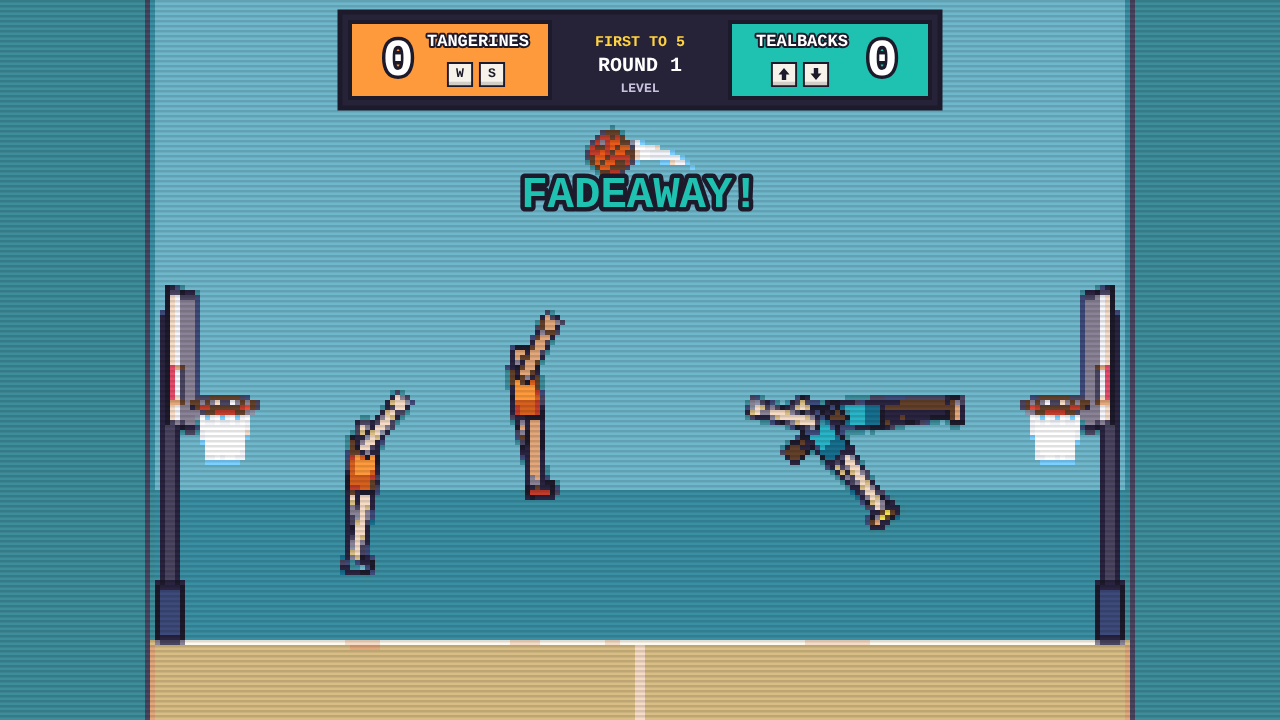
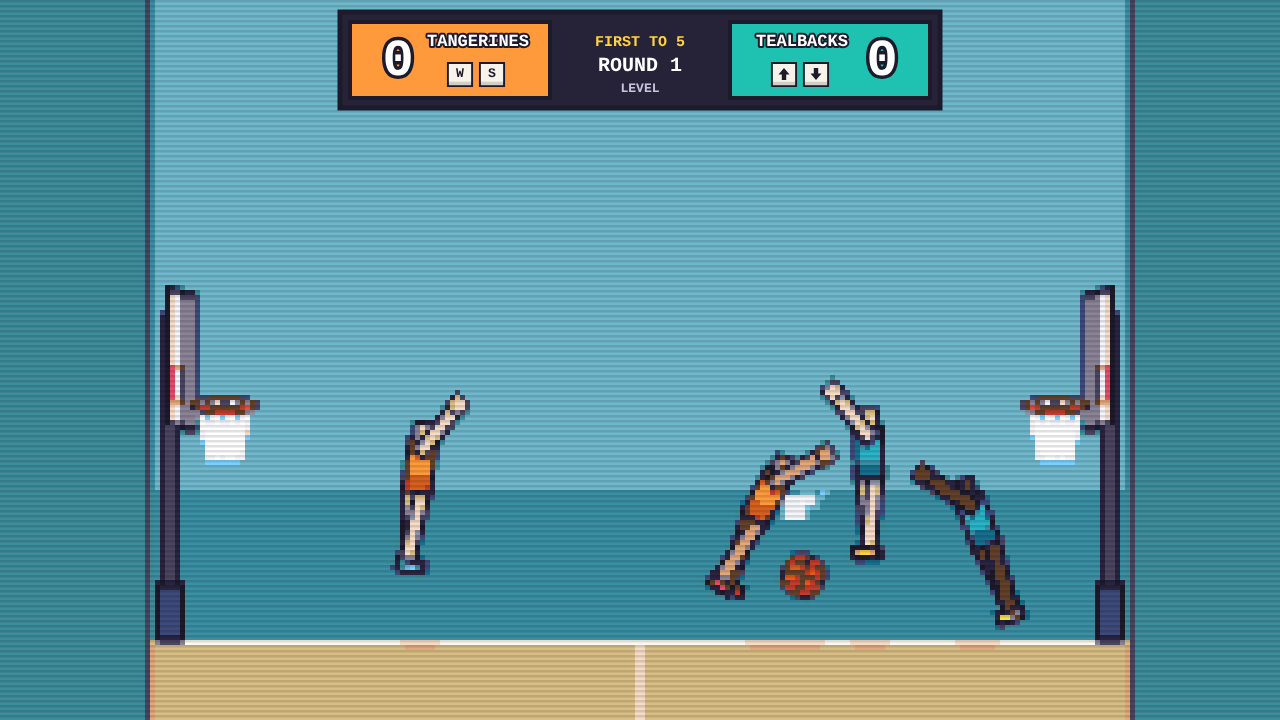
iteration 8: added tap-to-dunk, pass-through passes, particles; ball held in the palm
Brief: design/game-brief.md

Also: a perfect shot may graze the rim or board by up to 5 px (rim unchanged);
the hold point now follows the arm's angle at the catch; fewer score confetti.

Claude-Session: https://claude.ai/code/session_01JSgNr6WUAfnQ9VaCvmLX1X

diff --git a/prototypes/flop-hoops/js/physics.js b/prototypes/flop-hoops/js/physics.js
@@ -157,12 +157,12 @@ const Physics = (() => {
         const rel = Math.hypot(ball.velocity.x - other.velocity.x, ball.velocity.y - other.velocity.y);
         if (other.plugin.player) w.kicks.push({ part: other, rel });
         else if (other.plugin.kind === 'floor') ball.shot = null; // a shot that lands is no longer a shot
-        else if (ball.shot && (other.plugin.kind === 'rim' || other.plugin.kind === 'board') && ball.position.y < other.plugin.hoop.rimY) {
+        else if (ball.shot && !ball.shot.perfect && (other.plugin.kind === 'rim' || other.plugin.kind === 'board') && ball.position.y < other.plugin.hoop.rimY) {
           // touched before it was through the rim plane: no swish; an on-target shot turns its trail green
           ball.shot.clean = false;
           if (ball.shot.onTarget && w.trail && w.trail.shot === ball.shot) w.trail.mode = 'green';
         }
-        onEvent({ type: 'hit', on: other.plugin.player ? 'player' : other.plugin.kind, speed: rel,
+        onEvent({ type: 'hit', on: other.plugin.player ? 'player' : other.plugin.kind, speed: rel, x: ball.position.x, y: ball.position.y,
           team: other.plugin.player ? other.plugin.player.team : -1, hoop: other.plugin.hoop || null });
       }
     });
@@ -174,7 +174,7 @@ const Physics = (() => {
   function dropBall(w, T) {
     if (w.hold) release(w, T, 0);
     if (w.dunk) { w.dunk.p.slam = false; w.dunk = null; }
-    w.ball.collisionFilter.mask = 0x1 | 0x2 | 0x4;
+    w.ball.collisionFilter.mask = 0x1 | 0x2 | 0x4; w.ghostUntil = 0;
     Body.setPosition(w.ball, { x: w.cx, y: w.floorY - T.drop_height });
     Body.setVelocity(w.ball, { x: (w.rng() - 0.5) * 2.4, y: 0 });
     Body.setAngularVelocity(w.ball, (w.rng() - 0.5) * 0.2);
@@ -323,18 +323,22 @@ const Physics = (() => {
    *  before the shot can be cocked: `armed` turns true on the first release. */
   function grab(w, p, T, how, held) {
     const bheldNow = !!(w.bheld && w.bheld[p.team]);
-    const ball = w.ball, hand = handPos(p);
+    const ball = w.ball;
     if (w.hold) release(w, T, 0);
-    Body.setPosition(ball, hand);
+    const pr = p.dims.armL / 2 + ball.r * T.palm_offset;
+    Body.setPosition(ball, { x: p.arm.position.x - Math.sin(p.arm.angle) * pr, y: p.arm.position.y + Math.cos(p.arm.angle) * pr });
     Body.setVelocity(ball, { x: p.arm.velocity.x, y: p.arm.velocity.y });
     ball._px = undefined;
     ball.collisionFilter.group = p.group;           // the carrier's own body never knocks it out of the hand
-    const con = Constraint.create({ bodyA: p.arm, pointA: { x: 0, y: p.dims.armL / 2 }, bodyB: ball,
+    // the hold point is given in world orientation, so it is turned to the arm's angle right now:
+    // the ball sits in the palm, just past the hand, wherever the arm points at the catch
+    const reach = p.dims.armL / 2 + ball.r * T.palm_offset, aa = p.arm.angle;
+    const con = Constraint.create({ bodyA: p.arm, pointA: { x: -Math.sin(aa) * reach, y: Math.cos(aa) * reach }, bodyB: ball,
       pointB: { x: 0, y: 0 }, length: 0, stiffness: 0.6, damping: 0.1 });
     Composite.add(w.engine.world, con);
     w.lastBouncer = null; w.passGuard = null;
     if (how !== 'dribble') for (const q of w.players) q.dribbleT = 0;
-    w.hold = { p, con, t: 0, charge: 0, armed: !held, cocking: false, bcharge: 0, barmed: !bheldNow, bouncing: false, dunkReady: false };
+    w.hold = { p, con, t: 0, prevK: held, charge: 0, armed: !held, cocking: false, bcharge: 0, barmed: !bheldNow, bouncing: false, dunkReady: false };
     ball.shot = null;
     w.onEvent({ type: how, team: p.team });
   }
@@ -389,8 +393,8 @@ const Physics = (() => {
     for (let i = 0; i < 400; i++) {
       vx *= keep; vy = vy * keep + g;
       const ny = y + vy, nx = x + vx;
-      if (Math.hypot(nx - hoop.frontX, ny - hoop.rimY) < r + 6) touched = true;                 // front rim
-      if (Math.abs(nx - hoop.boardX) < r + 5 && ny > hoop.boardTop - r && ny < hoop.boardBot + r) touched = true; // backboard
+      if (Math.hypot(nx - hoop.frontX, ny - hoop.rimY) < r + 6 - T.perfect_graze) touched = true; // front rim, beyond a slight graze
+      if (Math.abs(nx - hoop.boardX) < r + 5 - T.perfect_graze && ny > hoop.boardTop - r && ny < hoop.boardBot + r) touched = true; // backboard, beyond a slight graze
       if (crossX === null && vy > 0 && y < hoop.rimY && ny >= hoop.rimY) crossX = x + (nx - x) * (hoop.rimY - y) / (ny - y);
       x = nx; y = ny;
       // contact counts only until the ball is through the rim plane: once it is in, a graze of
@@ -399,7 +403,7 @@ const Physics = (() => {
       if (y > w.floorY) break;
     }
     if (crossX === null) return { onTarget: false, perfect: false };
-    const off = Math.abs(crossX - hoop.cx), clears = off <= hoop.span / 2 - r - 1; // the whole ball inside both rim edges
+    const off = Math.abs(crossX - hoop.cx), clears = off <= hoop.span / 2 - r + T.perfect_graze; // inside both rim edges, give or take a slight graze
     return { onTarget: off < hoop.span / 2, perfect: !touched && clears && off < hoop.span * T.perfect_window };
   }
 
@@ -418,20 +422,21 @@ const Physics = (() => {
       Body.setVelocity(ball, { x: T.dribble_vx * p.dir, y: T.dribble_vy });
       p.dribbleT = T.dribble_time; p.cd = 0;
       Body.setAngularVelocity(p.torso, (p.dir * T.dribble_lean - wrap(p.torso.angle)) * 0.12); // tip in over the ball
-    } else Body.setVelocity(ball, { x: lerp(T.bounce_vx_min, T.bounce_vx_max, c) * p.dir, y: lerp(T.bounce_vy_min, T.bounce_vy_max, c) });
+    } else {
+      Body.setVelocity(ball, { x: lerp(T.bounce_vx_min, T.bounce_vx_max, c) * p.dir, y: lerp(T.bounce_vy_min, T.bounce_vy_max, c) });
+      ball.collisionFilter.mask = 0x1 | TEAM_CAT[p.team];   // a pass slips through opponents for a moment
+      w.ghostUntil = w.time + T.pass_ghost;
+    }
     Body.setAngularVelocity(ball, p.dir * 0.15);
     w.onEvent({ type: dribble ? 'dribbleout' : 'bounce', team: p.team, charge: c });
   }
 
   /**
-   * Whether the carrier can dunk now: in the air, the ball within T.dunk_range of the spot just
-   * above the rim, the body within T.dunk_body_range of the rim, and on the court side of it.
+   * Whether the carrier can dunk now: standing or in the air, the body within T.dunk_body_range of
+   * the rim (measured in both directions), and on the court side of it.
    */
   function dunkReady(w, T, p, hoop) {
-    const b = w.ball, top = { x: hoop.cx, y: hoop.rimY - b.r };
-    return p.sinceGround > 0.1
-      && Math.hypot(b.position.x - top.x, b.position.y - top.y) < T.dunk_range
-      && Math.hypot(p.torso.position.x - hoop.cx, p.torso.position.y - hoop.rimY) < T.dunk_body_range
+    return Math.hypot(p.torso.position.x - hoop.cx, p.torso.position.y - hoop.rimY) < T.dunk_body_range
       && (hoop.boardX - p.torso.position.x) * p.dir > 0;
   }
 
@@ -439,7 +444,7 @@ const Physics = (() => {
   function startDunk(w, T, hoop) {
     const p = w.hold.p, ball = w.ball;
     release(w, T, T.dunk_time + 0.4);
-    ball.collisionFilter.mask = 0;          // carried through, nothing knocks it off its path
+    ball.collisionFilter.mask = 0; w.ghostUntil = 0;   // carried through, nothing knocks it off its path
     w.dunk = { p, hoop, t: 0, from: { x: ball.position.x, y: ball.position.y } };
     p.slam = true;
     w.onEvent({ type: 'dunkstart', team: p.team });
@@ -457,7 +462,7 @@ const Physics = (() => {
     Body.setVelocity(ball, { x: nx - ball.position.x, y: ny - ball.position.y });
     Body.setPosition(ball, { x: nx, y: ny });
     // the dunker is pulled up to the rim's front, arm slamming down over it
-    const hang = { x: h.cx - p.dir * (h.span / 2 + 18), y: h.rimY + 50 };
+    const hang = { x: h.cx - p.dir * (h.span / 2 + 18), y: h.rimY + 50 };   // from the floor too: the pull lifts the dunker
     for (const part of p.parts) {
       Body.setVelocity(part, { x: lerp(part.velocity.x, (hang.x - p.torso.position.x) * 0.15, 0.4), y: lerp(part.velocity.y, (hang.y - p.torso.position.y) * 0.15, 0.4) });
     }
@@ -468,7 +473,7 @@ const Physics = (() => {
       h.wobble = 2;
       p.slam = false;
       w.dunk = null;
-      w.onEvent({ type: 'dunk', team: p.team });
+      w.onEvent({ type: 'dunk', team: p.team, x: h.cx, y: h.rimY });
     }
   }
 
@@ -524,7 +529,8 @@ const Physics = (() => {
       if (h.bouncing && !bk) { bounce(w, T); return; }
       const hoop = attackedHoop(w, p);
       h.dunkReady = dunkReady(w, T, p, hoop);
-      if (h.cocking && !k && h.dunkReady) { startDunk(w, T, hoop); return; }   // near the rim, letting go dunks
+      if (h.dunkReady && k && !h.prevK) { startDunk(w, T, hoop); return; }   // near the rim: a tap of jump dunks
+      h.prevK = k;
       if ((h.cocking && !k) || h.t > T.hold_max) { shoot(w, T); return; }
       for (const q of w.players) { // a defender's hand box over the held ball: stolen
         if (q.team === p.team || h.t < T.steal_guard || !canCatch(q)) continue;
@@ -558,12 +564,14 @@ const Physics = (() => {
   function step(w, held, T, dt, bheld = [false, false]) {
     w.time += dt;
     w.bheld = bheld;
+    if (w.ghostUntil && w.time >= w.ghostUntil) { w.ghostUntil = 0; if (!w.dunk) w.ball.collisionFilter.mask = 0x1 | 0x2 | 0x4; }
     for (const b of w.dynamic) { b._px = b.position.x; b._py = b.position.y; b._pa = b.angle; }
     for (const p of w.players) drive(w, p, held[p.team], T, dt);
     spread(w, T);
     w.kicks.length = 0;
     Engine.update(w.engine, DELTA);
     for (const p of w.players) {
+      if (p.foot && p.sinceFoot > 0.25 && p.torso.velocity.y > 3) w.onEvent({ type: 'land', x: p.torso.position.x, y: w.floorY, speed: p.torso.velocity.y });
       p.sinceGround = p.touch ? 0 : p.sinceGround + dt; p.touch = false;
       p.sinceFoot = p.foot ? 0 : p.sinceFoot + dt; p.foot = false;
     }

diff --git a/prototypes/flop-hoops/index.html b/prototypes/flop-hoops/index.html
@@ -162,10 +162,13 @@ function onPhysEvent(ev) {
   if (ev.type === 'dribbleout') { sfx.bounce(0.1); events.push({ type: 'dribbleout', team: ev.team }); return; }
   if (ev.type === 'bounce') { sfx.bounce(ev.charge); events.push({ type: 'bounce', team: ev.team, charge: ev.charge }); return; }
   if (ev.type === 'dunkstart') { sfx.grab(); events.push({ type: 'dunkstart', team: ev.team }); return; }
-  if (ev.type === 'dunk') { sfx.dunk(); state.shake = tune.shake * 0.6; events.push({ type: 'dunk', team: ev.team }); return; }
+  if (ev.type === 'dunk') { puff(ev.x, ev.y, 10, { speed: 320, life: 0.45, colors: ['#ffd23f', '#ffffff', Render.TEAM_COLORS[ev.team]], size: 9, g: 700 }); sfx.dunk(); state.shake = tune.shake * 0.6; events.push({ type: 'dunk', team: ev.team }); return; }
   if (ev.type === 'steal') world.flash.t = 0.25;
   if (CALLOUTS[ev.type]) { sfx.block(); state.shake = Math.max(state.shake, tune.shake * 0.4); callout(CALLOUTS[ev.type], ev.team); events.push({ type: ev.type, team: ev.team }); return; }
+  if (ev.type === 'land') { if (ev.speed > 4) puff(ev.x, ev.y - 4, 4, { speed: 120, angle: -Math.PI / 2, cone: 2.6, life: 0.35, colors: [DUST()], size: 8, g: 300, jitter: 20 }); return; }
   if (ev.type !== 'hit' || ev.speed < 1.2) return;
+  if (ev.on === 'floor' && ev.speed > 3) puff(ev.x, Physics.FLOOR_Y - 4, 3, { speed: 90, angle: -Math.PI / 2, cone: 2.4, life: 0.3, colors: [DUST()], size: 7, g: 250, jitter: 14 });
+  if (ev.on === 'rim' && ev.speed > 2) puff(ev.x, ev.y, 4, { speed: 220, life: 0.25, colors: ['#ffd23f', '#ffffff'], size: 6, g: 600 });
   if (ev.on === 'player') { sfx.bop(ev.speed); events.push({ type: 'touch', team: ev.team }); }
   else if (ev.on === 'floor') sfx.floor(ev.speed);
   else if (ev.on === 'board') { sfx.board(ev.speed); if (ev.hoop) ev.hoop.wobble = 1; }
@@ -206,30 +209,44 @@ let physStepSaw = [false, false], physStepSawB = [false, false];
 function bounceKeys() { return BOUNCE_KEYS.map(k => down.has(k)); }
 function courtAlpha() { return Math.min(1, physAcc + ALPHA * tune.game_speed); }
 function heldKeys() { return KEYS.map(k => down.has(k)); }
+const DUST = () => (world && Render.VENUES[world.S.venue].line) || '#ffffff';
 const SCORE_KINDS = { dunk: 'DUNK!', fade: 'FADEAWAY!', shot: 'JUMP SHOT!' };
 function score(hoop) {
   const team = hoop.team, shot = world.ball.shot, own = shot && shot.team === team;
-  state.scoreKind = own ? (shot.perfect && shot.clean ? 'PERFECT SWISH!' : shot.kind !== 'dunk' && shot.clean ? 'SWISH! ' + SCORE_KINDS[shot.kind] : SCORE_KINDS[shot.kind])
+  state.scoreKind = own ? (shot.perfect ? 'PERFECT SWISH!' : shot.kind !== 'dunk' && shot.clean ? 'SWISH! ' + SCORE_KINDS[shot.kind] : SCORE_KINDS[shot.kind])
     : (world.hold ? 'CARRIED IN!' : 'SCRAMBLE!');
   state.toastT = 0; // the score banner names the shot; no callout on top of it
   state.score[team]++; state.pops[team] = 1; state.shake = tune.shake * (shot && shot.kind === 'dunk' ? 1.6 : 1); state.scorer = team; state.scoredT = 0;
   hoop.sway = 1.5;
   const c = [Render.TEAM_COLORS[team], '#ffd23f', '#ffffff', Render.TEAM_DARK[team]];
-  for (let i = 0; i < 70; i++) {
+  for (let i = 0; i < 36; i++) {
     state.particles.push({ x: (hoop.x1 + hoop.x2) / 2, y: hoop.rimY + 20, vx: (rng() - 0.5) * 900, vy: -200 - rng() * 700,
       a: rng() * 6, va: (rng() - 0.5) * 20, life: 1.2 + rng() * 0.8, c: c[i % 4] });
   }
   sfx.swish();
+  puff((hoop.x1 + hoop.x2) / 2, hoop.rimY + 40, 6, { speed: 60, angle: Math.PI / 2, cone: 1.2, life: 0.6, colors: ['#ffffff'], size: 6, g: 500, jitter: 30 }); // net flecks
   events.push({ type: 'score', team, score: state.score.slice() });
   state.winner = Scoring.winner(state.score, tune.win_score);
   scene = 'scored';
+}
+// ---- Particles: few, short and purposeful. A separate random keeps gameplay rolls untouched.
+let fxSeed = 7;
+function fxr() { fxSeed = (fxSeed * 1103515245 + 12345) & 0x7fffffff; return fxSeed / 0x7fffffff; }
+/** Spawn n particles at (x, y): spread is the launch speed in px/s, up its upward bias, g gravity. */
+function puff(x, y, n, o) {
+  for (let i = 0; i < n; i++) {
+    const a = o.angle !== undefined ? o.angle + (fxr() - 0.5) * (o.cone || Math.PI) : fxr() * Math.PI * 2;
+    const sp = o.speed * (0.5 + fxr() * 0.5);
+    state.particles.push({ x: x + (fxr() - 0.5) * (o.jitter || 0), y, vx: Math.cos(a) * sp, vy: Math.sin(a) * sp - (o.up || 0),
+      a: 0, va: 0, life: o.life * (0.7 + fxr() * 0.3), max: o.life, c: o.colors[i % o.colors.length], size: o.size || 8, g: o.g ?? 900, drag: o.drag ?? 0.9 });
+  }
 }
 function updateJuice(dt) {
   state.pops = state.pops.map(p => Math.max(0, p - dt * 2.5));
   state.shake = Math.max(0, state.shake - dt * tune.shake * 2.2);
   state.toastT = Math.max(0, state.toastT - dt);
   if (world && world.flash) world.flash.t = Math.max(0, world.flash.t - dt);
-  for (const p of state.particles) { p.vy += 1400 * dt; p.x += p.vx * dt; p.y += p.vy * dt; p.vx *= 0.99; p.a += p.va * dt; p.life -= dt; }
+  for (const p of state.particles) { const d = Math.pow(p.drag ?? 0.99, dt * 60); p.vy += (p.g ?? 1400) * dt; p.vx *= d; p.vy *= p.g === 0 ? d : 1; p.x += p.vx * dt; p.y += p.vy * dt; p.a += p.va * dt; p.life -= dt; }
   state.particles = state.particles.filter(p => p.life > 0 && p.y < H + 20);
 }
 /** A ball that stops moving (on a backboard top, wedged in a corner) is dropped again. */
@@ -296,7 +313,8 @@ function drawCourt(fn) {
 function drawGame(opts = {}) {
   drawCourt(c => {
     Render.world(c, world, courtAlpha(), state.t, W, H);
-    for (const p of state.particles) { c.fillStyle = p.c; c.fillRect(p.x - 6, p.y - 6, 12, 12); }
+    for (const p of state.particles) { const k = p.max ? Math.max(0, p.life / p.max) : 1, sz = (p.size || 12) * (p.max ? 0.4 + 0.6 * k : 1); c.globalAlpha = p.max ? Math.min(1, k * 1.5) : 1; c.fillStyle = p.c; c.fillRect(p.x - sz / 2, p.y - sz / 2, sz, sz); }
+    c.globalAlpha = 1;
   });
   if (opts.hud !== false) {
     Render.scoreboard(ctx, W, { score: state.score, pops: state.pops, round: state.round, target: tune.win_score, leader: Scoring.leader(state.score) });
@@ -304,6 +322,10 @@ function drawGame(opts = {}) {
       const t = world.hustle[0] ? 0 : 1;
       text(`${Render.TEAM_NAMES[t].toUpperCase()} HUSTLE: HIGHER JUMPS`, W / 2, 128, 16, Render.TEAM_COLORS[t], { stroke: 4 });
     }
+  }
+  if (world && world.hold && world.hold.dunkReady && (scene === 'play')) {
+    const p = world.hold.p, h = world.hoops.find(q => q.team === p.team), on = Math.floor(state.t * 4) % 2;
+    text(`TAP ${p.team ? 'UP' : 'W'} TO DUNK`, h.cx, h.boardTop - 30, 18, on ? '#ffd23f' : '#ffffff', { weight: 900, stroke: 5 });
   }
   if (state.toastT > 0) {
     const k = Math.min(1, (1.1 - state.toastT) / 0.12);

diff --git a/prototypes/flop-hoops/config.js b/prototypes/flop-hoops/config.js
@@ -31,6 +31,7 @@ window.CONFIG = {
 
   // ---- Ball handling: grab, shoot, fadeaway, dunk, block ----
   regrab_delay: { value: 0.4, min: 0, max: 1.5, step: 0.05 },   // s before a player who let go can grab again
+  palm_offset: { value: 0.55, min: 0, max: 1.2, step: 0.05 },    // ball centre past the hand, in ball radii: held in the palm
   belly_margin: { value: 6, min: 0, max: 30, step: 1 },          // px the abdomen catch reaches past the torso
   hand_box: { value: 78, min: 20, max: 120, step: 2 },          // px side of the square catch box around each hand
   shot_charge_time: { value: 1.0, min: 0.2, max: 2.5, step: 0.05 }, // s of holding to reach full shot power
@@ -43,8 +44,7 @@ window.CONFIG = {
   fade_speed: { value: 0.8, min: 0, max: 5, step: 0.1 },        // px/step drifting away from the hoop that counts
   fade_lean: { value: 0.3, min: 0, max: 1.2, step: 0.05 },      // rad leaning back that counts
   dunk_speed: { value: 12, min: 4, max: 24, step: 0.5 },        // px/step the ball is slammed down
-  dunk_range: { value: 80, min: 20, max: 200, step: 5 },        // px from the ball to the spot above the rim where a dunk is on
-  dunk_body_range: { value: 150, min: 60, max: 300, step: 5 },  // px from the dunker's body to the rim
+  dunk_body_range: { value: 175, min: 60, max: 300, step: 5 },  // px from the carrier's body to the rim where TAP TO DUNK shows (standing or flying)
   dunk_time: { value: 0.22, min: 0.08, max: 0.6, step: 0.01 },  // s the slam motion takes
   dunk_lift: { value: 24, min: 0, max: 80, step: 2 },            // px the ball arcs up before coming down through
   block_window: { value: 0.9, min: 0.2, max: 2, step: 0.05 },   // s after a shot a defender's touch is a block
@@ -60,6 +60,7 @@ window.CONFIG = {
   dribble_reach: { value: 70, min: 0, max: 160, step: 5 },       // px from the hand a rising dribble is caught back
   bounce_regrab: { value: 0.3, min: 0, max: 1, step: 0.05 },    // s before the bouncer can catch it again
   pass_guard: { value: 0.6, min: 0, max: 2, step: 0.05 },        // s after a bounce that opponents cannot catch it
+  pass_ghost: { value: 0.3, min: 0, max: 1, step: 0.05 },        // s a pass passes straight through opponents
   dribble_threshold: { value: 0.25, min: 0, max: 1, step: 0.05 }, // bounce charge below which a release is a dribble
   dribble_vx: { value: 1.6, min: 0, max: 6, step: 0.1 },         // px/step forward speed of a dribble
   dribble_vy: { value: 6, min: 1, max: 14, step: 0.5 },          // px/step downward throw of a dribble
@@ -69,6 +70,7 @@ window.CONFIG = {
   dribble_hop_gap: { value: 0.18, min: 0.05, max: 0.6, step: 0.01 }, // s between small hops
   dribble_lean: { value: 0.3, min: 0, max: 0.8, step: 0.02 },    // rad forward lean while dribbling
   perfect_window: { value: 0.25, min: 0.02, max: 0.5, step: 0.01 }, // share of rim width from centre that counts as a perfect line
+  perfect_graze: { value: 5, min: 0, max: 15, step: 1 },         // px a perfect shot may overlap the rim or board and still count
   trail_length: { value: 18, min: 0, max: 60, step: 1 },        // steps of ball trail behind a fired shot
   hustle_gap: { value: 2, min: 1, max: 10, step: 1 },           // points behind before a team hustles
   hustle_jump: { value: 1.15, min: 1, max: 1.6, step: 0.01 },   // jump height multiplier while hustling

diff --git a/prototypes/flop-hoops/js/render.js b/prototypes/flop-hoops/js/render.js
@@ -278,6 +278,6 @@ const Render = (() => {
     if (b.hint) text(ctx, b.hint, b.x + b.w / 2, b.y + b.h + 22, 16, '#ffffff', { weight: 700, stroke: 4 });
   }
 
-  return { RAINBOW, CONTESTED, setFont, pose, world, player, ball, hoopBack, hoopFront, scoreboard, roundCard, button, keycap, crown, text, ink, rr,
+  return { RAINBOW, CONTESTED, VENUES, setFont, pose, world, player, ball, hoopBack, hoopFront, scoreboard, roundCard, button, keycap, crown, text, ink, rr,
     TEAM_NAMES, TEAM_COLORS, TEAM_DARK, INK, VENUES };
 })();

diff --git a/design/game-brief.md b/design/game-brief.md
@@ -30,6 +30,8 @@ After play: Preserve existing assets and visual effects. The basketball, basketb
 
 After play: make it so that when you bounce the ball, the enemies cannot grab it for a short period of time to encourage ball passing between teammates. When "dribbling" if the release period is short enough, the ball should just do a short bounce, and the player should move lean and do small jumps with the ball. make shooting a bit easier and simpler, the ball's trajectory should not be influenced by the momentum of the character: the ball should always follow the same parabolic trajectory to the hoop, even if character is leaning backwards etcetera.
 
+After play: make the perfect effect easier to proc, as in if the ball hits the rim very slightly it counts as a perfect / or make the rim slightly larger and I mean really slightly larger. Make the dunking easier to do, the dunking should prompt when the player has the ball and is near the basket, even when standing on the ground, and it should be a tap of the jump key to proc a dunk, also when passing, the ball should pass through the enemy, (make sure this is a short time frame). add more particles to things, but make the particles feel polished - not just excessive. the ball should be held either at the base of the hand, or on the palm of the hand. currently it's being held on the chest without touching the arm.
+
 **Pitch:** Two wobbly ragdoll ballers a side, one jump key each, swinging on their feet and hurling a squircle ball.
 
 **Genre:** arcade sports (floppy physics sport)
@@ -76,11 +78,13 @@ Every touch is contested from second one: the skill is timing your hop against t
 - [x] Only opponents collide; teammates pass through each other
 - [x] Planted players pivot on their feet, swinging evenly forward and back at a beat that never fades; fallen players get back up
 - [x] Shots: one arc per cock-back and spot (forward 3.5-14, up 11-13, 1 s cock-back); lean, drift and momentum change nothing; strong aim help toward the rim's centre
-- [x] Bounce key: hold to wind up, let go to bounce the ball forward as a pass; opponents cannot catch a bounced ball for 0.6 s
+- [x] Bounce key: hold to wind up, let go to bounce the ball forward as a pass; a pass slips through opponents for 0.3 s and they cannot catch it for 0.6 s
 - [x] Dribble: a quick tap bounces the ball at the feet while the player leans in and hops forward with it, catching it back
-- [x] Dunk: near the rim in the air (ball and body measured to the rim), letting go of the cocked shot dunks: the ball arcs in over the rim and the dunker is carried to it
+- [x] Dunk: with the ball near your hoop, standing or flying, TAP TO DUNK shows; a tap of the jump key dunks: the ball arcs in over the rim and the dunker is carried up to it
 - [x] Quicker pace than iteration 4 (game speed 0.9, shorter round card and celebration); players eased apart so they never pile into one blob
-- [x] Fired ball trail: white; rainbow with a PERFECT! callout on a clean line through the rim; green if an on-target shot touches rim or backboard before going through
+- [x] Fired ball trail: white; rainbow with a PERFECT! callout on a line through the rim (a graze of up to 5 px still counts); green if any other on-target shot touches rim or backboard before going through
+- [x] The ball is held in the palm, just past the hand, whatever the arm's angle at the catch
+- [x] Particles, few and short: landing and bounce dust, rim sparks, net flecks, a dunk burst, tidier score confetti
 - [x] SWISH and PERFECT SWISH baskets; HUSTLE higher jumps for a team 2+ points behind; pickup flash
 - [x] Catches checked every step: larger hand box, abdomen overlap
 

diff --git a/prototypes/flop-hoops/brief.md b/prototypes/flop-hoops/brief.md
@@ -30,6 +30,8 @@ After play: Preserve existing assets and visual effects. The basketball, basketb
 
 After play: make it so that when you bounce the ball, the enemies cannot grab it for a short period of time to encourage ball passing between teammates. When "dribbling" if the release period is short enough, the ball should just do a short bounce, and the player should move lean and do small jumps with the ball. make shooting a bit easier and simpler, the ball's trajectory should not be influenced by the momentum of the character: the ball should always follow the same parabolic trajectory to the hoop, even if character is leaning backwards etcetera.
 
+After play: make the perfect effect easier to proc, as in if the ball hits the rim very slightly it counts as a perfect / or make the rim slightly larger and I mean really slightly larger. Make the dunking easier to do, the dunking should prompt when the player has the ball and is near the basket, even when standing on the ground, and it should be a tap of the jump key to proc a dunk, also when passing, the ball should pass through the enemy, (make sure this is a short time frame). add more particles to things, but make the particles feel polished - not just excessive. the ball should be held either at the base of the hand, or on the palm of the hand. currently it's being held on the chest without touching the arm.
+
 **Pitch:** Two wobbly ragdoll ballers a side, one jump key each, swinging on their feet and hurling a squircle ball.
 
 **Genre:** arcade sports (floppy physics sport)
@@ -76,11 +78,13 @@ Every touch is contested from second one: the skill is timing your hop against t
 - [x] Only opponents collide; teammates pass through each other
 - [x] Planted players pivot on their feet, swinging evenly forward and back at a beat that never fades; fallen players get back up
 - [x] Shots: one arc per cock-back and spot (forward 3.5-14, up 11-13, 1 s cock-back); lean, drift and momentum change nothing; strong aim help toward the rim's centre
-- [x] Bounce key: hold to wind up, let go to bounce the ball forward as a pass; opponents cannot catch a bounced ball for 0.6 s
+- [x] Bounce key: hold to wind up, let go to bounce the ball forward as a pass; a pass slips through opponents for 0.3 s and they cannot catch it for 0.6 s
 - [x] Dribble: a quick tap bounces the ball at the feet while the player leans in and hops forward with it, catching it back
-- [x] Dunk: near the rim in the air (ball and body measured to the rim), letting go of the cocked shot dunks: the ball arcs in over the rim and the dunker is carried to it
+- [x] Dunk: with the ball near your hoop, standing or flying, TAP TO DUNK shows; a tap of the jump key dunks: the ball arcs in over the rim and the dunker is carried up to it
 - [x] Quicker pace than iteration 4 (game speed 0.9, shorter round card and celebration); players eased apart so they never pile into one blob
-- [x] Fired ball trail: white; rainbow with a PERFECT! callout on a clean line through the rim; green if an on-target shot touches rim or backboard before going through
+- [x] Fired ball trail: white; rainbow with a PERFECT! callout on a line through the rim (a graze of up to 5 px still counts); green if any other on-target shot touches rim or backboard before going through
+- [x] The ball is held in the palm, just past the hand, whatever the arm's angle at the catch
+- [x] Particles, few and short: landing and bounce dust, rim sparks, net flecks, a dunk burst, tidier score confetti
 - [x] SWISH and PERFECT SWISH baskets; HUSTLE higher jumps for a team 2+ points behind; pickup flash
 - [x] Catches checked every step: larger hand box, abdomen overlap
 
